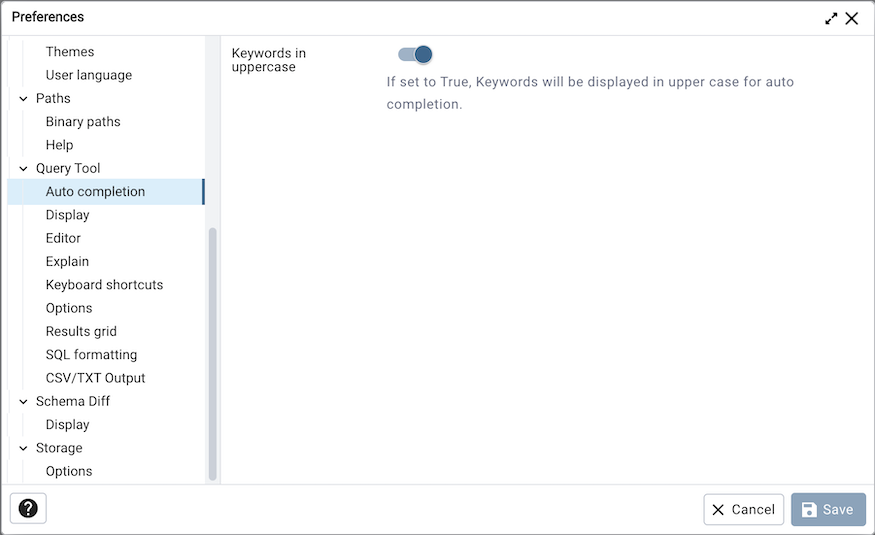
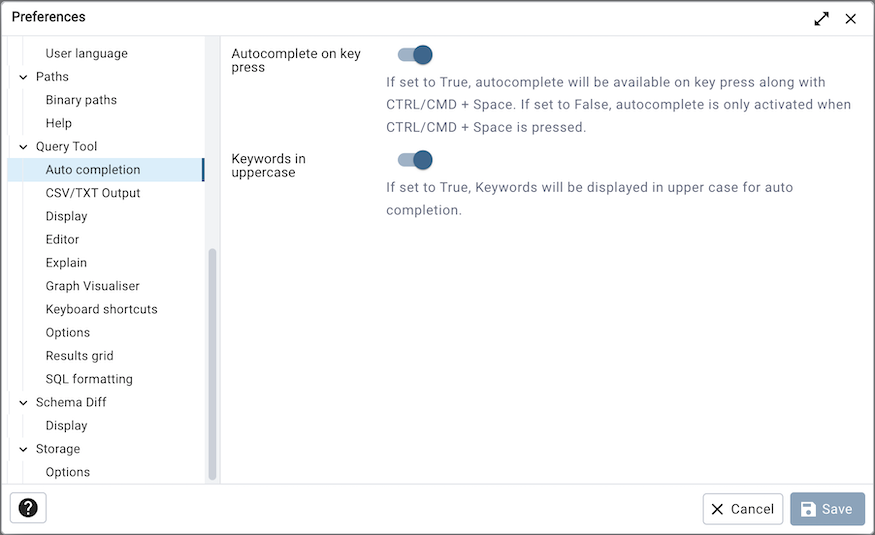
Added option to trigger autocomplete on key press in the query tool. Fixes #4488

diff --git a/web/pgadmin/tools/sqleditor/static/js/components/sections/Query.jsx b/web/pgadmin/tools/sqleditor/static/js/components/sections/Query.jsx
@@ -27,6 +27,7 @@ const useStyles = makeStyles(()=>({
 }));
 
 function registerAutocomplete(api, transId, onFailure) {
+  let timeoutId;
   OrigCodeMirror.registerHelper('hint', 'sql', function (editor) {
     var data = [],
       doc = editor.getDoc(),
@@ -49,7 +50,6 @@ function registerAutocomplete(api, transId, onFailure) {
          */
         hint_render: function (elt, data_arg, cur_arg) {
           var el = document.createElement('span');
-
           switch (cur_arg.type) {
           case 'database':
             el.className = 'sqleditor-hint pg-icon-' + cur_arg.type;
@@ -58,10 +58,14 @@ function registerAutocomplete(api, transId, onFailure) {
             el.className = 'sqleditor-hint icon-type';
             break;
           case 'keyword':
-            el.className = 'fa fa-key';
+            el.className = 'sqleditor-hint icon-key';
             break;
           case 'table alias':
-            el.className = 'fa fa-at';
+            el.className = 'sqleditor-hint icon-at';
+            break;
+          case 'join':
+          case 'fk join':
+            el.className = 'sqleditor-hint icon-join';
             break;
           default:
             el.className = 'sqleditor-hint icon-' + cur_arg.type;
@@ -87,73 +91,87 @@ function registerAutocomplete(api, transId, onFailure) {
     return {
       then: function (cb) {
         var self_local = this;
-        // Make ajax call to find the autocomplete data
-        api.post(self_local.url, JSON.stringify(self_local.data))
-          .then((res) => {
-            var result = [];
 
-            _.each(res.data.data.result, function (obj, key) {
-              result.push({
-                text: key,
-                type: obj.object_type,
-                render: self_local.hint_render,
+        /*
+         * Below logic find the start and end point
+         * to replace the selected auto complete suggestion.
+         */
+        var token = self_local.editor.getTokenAt(cur),
+          start, end, search;
+        if (token.end > cur.ch) {
+          token.end = cur.ch;
+          token.string = token.string.slice(0, cur.ch - token.start);
+        }
+
+        if (token.string.match(/^[.`\w@]\w*$/)) {
+          search = token.string;
+          start = token.start;
+          end = token.end;
+        } else {
+          start = end = cur.ch;
+          search = '';
+        }
+
+        /*
+         * Added 1 in the start position if search string
+         * started with "." or "`" else auto complete of code mirror
+         * will remove the "." when user select any suggestion.
+         */
+        if (search.charAt(0) == '.' || search.charAt(0) == '``')
+          start += 1;
+
+        cb({
+          list: [{
+            text: '',
+            render: (elt)=>{
+              var el = document.createElement('span');
+              el.className = 'sqleditor-hint icon-spinner';
+              el.appendChild(document.createTextNode(gettext('Loading...')));
+              elt.appendChild(el);
+            },
+          }, {text: ''}],
+          from: {
+            line: self_local.current_line,
+            ch: start,
+          },
+          to: {
+            line: self_local.current_line,
+            ch: end,
+          },
+        });
+
+        timeoutId && clearTimeout(timeoutId);
+        timeoutId = setTimeout(()=> {
+          timeoutId = null;
+          // Make ajax call to find the autocomplete data
+          api.post(self_local.url, JSON.stringify(self_local.data))
+            .then((res) => {
+              var result = [];
+
+              _.each(res.data.data.result, function (obj, key) {
+                result.push({
+                  text: key,
+                  type: obj.object_type,
+                  render: self_local.hint_render,
+                });
               });
+
+              cb({
+                list: result,
+                from: {
+                  line: self_local.current_line,
+                  ch: start,
+                },
+                to: {
+                  line: self_local.current_line,
+                  ch: end,
+                },
+              });
+            })
+            .catch((err) => {
+              onFailure?.(err);
             });
-
-            // Sort function to sort the suggestion's alphabetically.
-            result.sort(function (a, b) {
-              var textA = a.text.toLowerCase(),
-                textB = b.text.toLowerCase();
-              if (textA < textB) //sort string ascending
-                return -1;
-              if (textA > textB)
-                return 1;
-              return 0; //default return value (no sorting)
-            });
-
-            /*
-           * Below logic find the start and end point
-           * to replace the selected auto complete suggestion.
-           */
-            var token = self_local.editor.getTokenAt(cur),
-              start, end, search;
-            if (token.end > cur.ch) {
-              token.end = cur.ch;
-              token.string = token.string.slice(0, cur.ch - token.start);
-            }
-
-            if (token.string.match(/^[.`\w@]\w*$/)) {
-              search = token.string;
-              start = token.start;
-              end = token.end;
-            } else {
-              start = end = cur.ch;
-              search = '';
-            }
-
-            /*
-           * Added 1 in the start position if search string
-           * started with "." or "`" else auto complete of code mirror
-           * will remove the "." when user select any suggestion.
-           */
-            if (search.charAt(0) == '.' || search.charAt(0) == '``')
-              start += 1;
-
-            cb({
-              list: result,
-              from: {
-                line: self_local.current_line,
-                ch: start,
-              },
-              to: {
-                line: self_local.current_line,
-                ch: end,
-              },
-            });
-          })
-          .catch((err) => {
-            onFailure?.(err);
-          });
+        }, 300);
       }.bind(ctx),
     };
   });

diff --git a/web/pgadmin/browser/templates/browser/css/node.css b/web/pgadmin/browser/templates/browser/css/node.css
@@ -16,3 +16,39 @@
   background-size: 20px !important;
   background-position: center left;
 }
+
+.icon-at {
+  background-image: url('../../../../static/img/at.svg') !important;
+  background-repeat: no-repeat;
+  background-size: 15px !important;
+  align-content: center;
+  vertical-align: middle;
+  height: 15px;
+}
+
+.icon-key {
+  background-image: url('../../../../static/img/key.svg') !important;
+  background-repeat: no-repeat;
+  background-size: 15px !important;
+  align-content: center;
+  vertical-align: middle;
+  height: 15px;
+}
+
+.icon-join {
+  background-image: url('../../../../static/img/join.svg') !important;
+  background-repeat: no-repeat;
+  background-size: 20px !important;
+  align-content: center;
+  vertical-align: middle;
+  height: 15px;
+}
+
+.icon-spinner {
+  background-image: url('../../../../static/img/spinner.svg') !important;
+  background-repeat: no-repeat;
+  background-size: 15px !important;
+  align-content: center;
+  vertical-align: middle;
+  height: 15px;
+}

diff --git a/web/pgadmin/static/js/components/CodeMirror.jsx b/web/pgadmin/static/js/components/CodeMirror.jsx
@@ -418,6 +418,17 @@ export default function CodeMirror({currEditor, name, value, options, events, re
     Object.keys(events||{}).forEach((eventName)=>{
       editor.current.on(eventName, events[eventName]);
     });
+
+    // Register keyup event if autocomplete is true
+    let pref = pgWindow?.pgAdmin?.Browser?.get_preferences_for_module('sqleditor') || {};
+    if (autocomplete && pref.autocomplete_on_key_press) {
+      editor.current.on('keyup', (cm, event)=>{
+        if (!cm.state.completionActive && event.key != 'Enter' && event.key != 'Escape') {
+          OrigCodeMirror.commands.autocomplete(cm, null, {completeSingle: false});
+        }
+      });
+    }
+
     editor.current.on('drop', handleDrop);
     editor.current.on('paste', handlePaste);
     initPreferences();

diff --git a/web/pgadmin/tools/sqleditor/__init__.py b/web/pgadmin/tools/sqleditor/__init__.py
@@ -61,6 +61,7 @@ MODULE_NAME = 'sqleditor'
 TRANSACTION_STATUS_CHECK_FAILED = gettext("Transaction status check failed.")
 _NODES_SQL = 'nodes.sql'
 sqleditor_close_session_lock = Lock()
+auto_complete_objects = dict()
 
 
 class SqlEditorModule(PgAdminModule):
@@ -559,6 +560,10 @@ def close(trans_id):
         trans_id: unique transaction id
     """
     with sqleditor_close_session_lock:
+        # delete the SQLAutoComplete object
+        if trans_id in auto_complete_objects:
+            del auto_complete_objects[trans_id]
+
         if 'gridData' not in session:
             return make_json_response(data={'status': True})
 
@@ -1746,10 +1751,13 @@ def auto_complete(trans_id):
     if status and conn is not None and \
             trans_obj is not None and session_obj is not None:
 
-        # Create object of SQLAutoComplete class and pass connection object
-        auto_complete_obj = SQLAutoComplete(
-            sid=trans_obj.sid, did=trans_obj.did, conn=conn)
+        if trans_id not in auto_complete_objects:
+            # Create object of SQLAutoComplete class and pass connection object
+            auto_complete_objects[trans_id] = \
+                SQLAutoComplete(sid=trans_obj.sid, did=trans_obj.did,
+                                conn=conn)
 
+        auto_complete_obj = auto_complete_objects[trans_id]
         # Get the auto completion suggestions.
         res = auto_complete_obj.get_completions(full_sql, text_before_cursor)
     else:

diff --git a/web/pgadmin/tools/sqleditor/utils/query_tool_preferences.py b/web/pgadmin/tools/sqleditor/utils/query_tool_preferences.py
@@ -678,6 +678,16 @@ def register_query_tool_preferences(self):
     )
 
     self.preference.register(
+        'auto_completion', 'autocomplete_on_key_press',
+        gettext("Autocomplete on key press"), 'boolean', True,
+        category_label=gettext('Auto completion'),
+        help_str=gettext('If set to True, autocomplete will be available on '
+                         'key press along with CTRL/CMD + Space. If set to '
+                         'False, autocomplete is only activated when CTRL/CMD '
+                         '+ Space is pressed.')
+    )
+
+    self.preference.register(
         'keyboard_shortcuts',
         'commit_transaction',
         gettext('Commit'),

diff --git a/docs/en_US/release_notes_6_12.rst b/docs/en_US/release_notes_6_12.rst
@@ -9,6 +9,7 @@ This release contains a number of bug fixes and new features since the release o
 New features
 ************
 
+  | `Issue #4488 <https://redmine.postgresql.org/issues/4488>`_ -  Added option to trigger autocomplete on key press in the query tool.
   | `Issue #7486 <https://redmine.postgresql.org/issues/7486>`_ -  Added support for visualizing the graphs using Stacked Line, Bar, and Stacked Bar charts in the query tool.
   | `Issue #7487 <https://redmine.postgresql.org/issues/7487>`_ -  Added support for visualise the graph using a Pie chart in the query tool.
 

diff --git a/docs/en_US/preferences.rst b/docs/en_US/preferences.rst
@@ -290,6 +290,9 @@ preferences for the Query Editor tool.
 
 Use the fields on the *Auto Completion* panel to set the auto completion options.
 
+* When the *Autocomplete on key press* switch is set to *True* then autocomplete
+  will be available on key press along with CTRL/CMD + Space. If it is set to
+  *False* then autocomplete is only activated when CTRL/CMD + Space is pressed.
 * When the *Keywords in uppercase* switch is set to *True* then keywords are
   shown in upper case.
 
